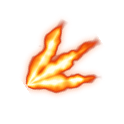
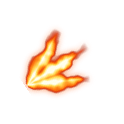
Kohr-Ah F.R.I.E.D.: start the plumes at the bow, not mid-hull
Each level passes its own offsets (straight and diagonal) so the plumes'
base sits on the ship's nose; plumes are a little shorter so they end at
the target instead of well past it.

Claude-Session: https://claude.ai/code/session_01Tij439hFLk1Gu2R1dsSkv7

diff --git a/tools/make_fried.py b/tools/make_fried.py
@@ -16,7 +16,7 @@ W, H = 88, 88           # final image size
 SS = 4                  # supersampling
 ORIGIN = (W / 2, H - 3)
 PLUMES = [(-25.0, 0.88), (0.0, 1.0), (25.0, 0.88)]   # (angle, relative length)
-LENGTH = 74.0
+LENGTH = 62.0
 WIDTH = 9.5             # half-width at the widest point
 FRAMES = [0.45, 0.78, 1.0, 1.0]   # plume length of each frame
 
